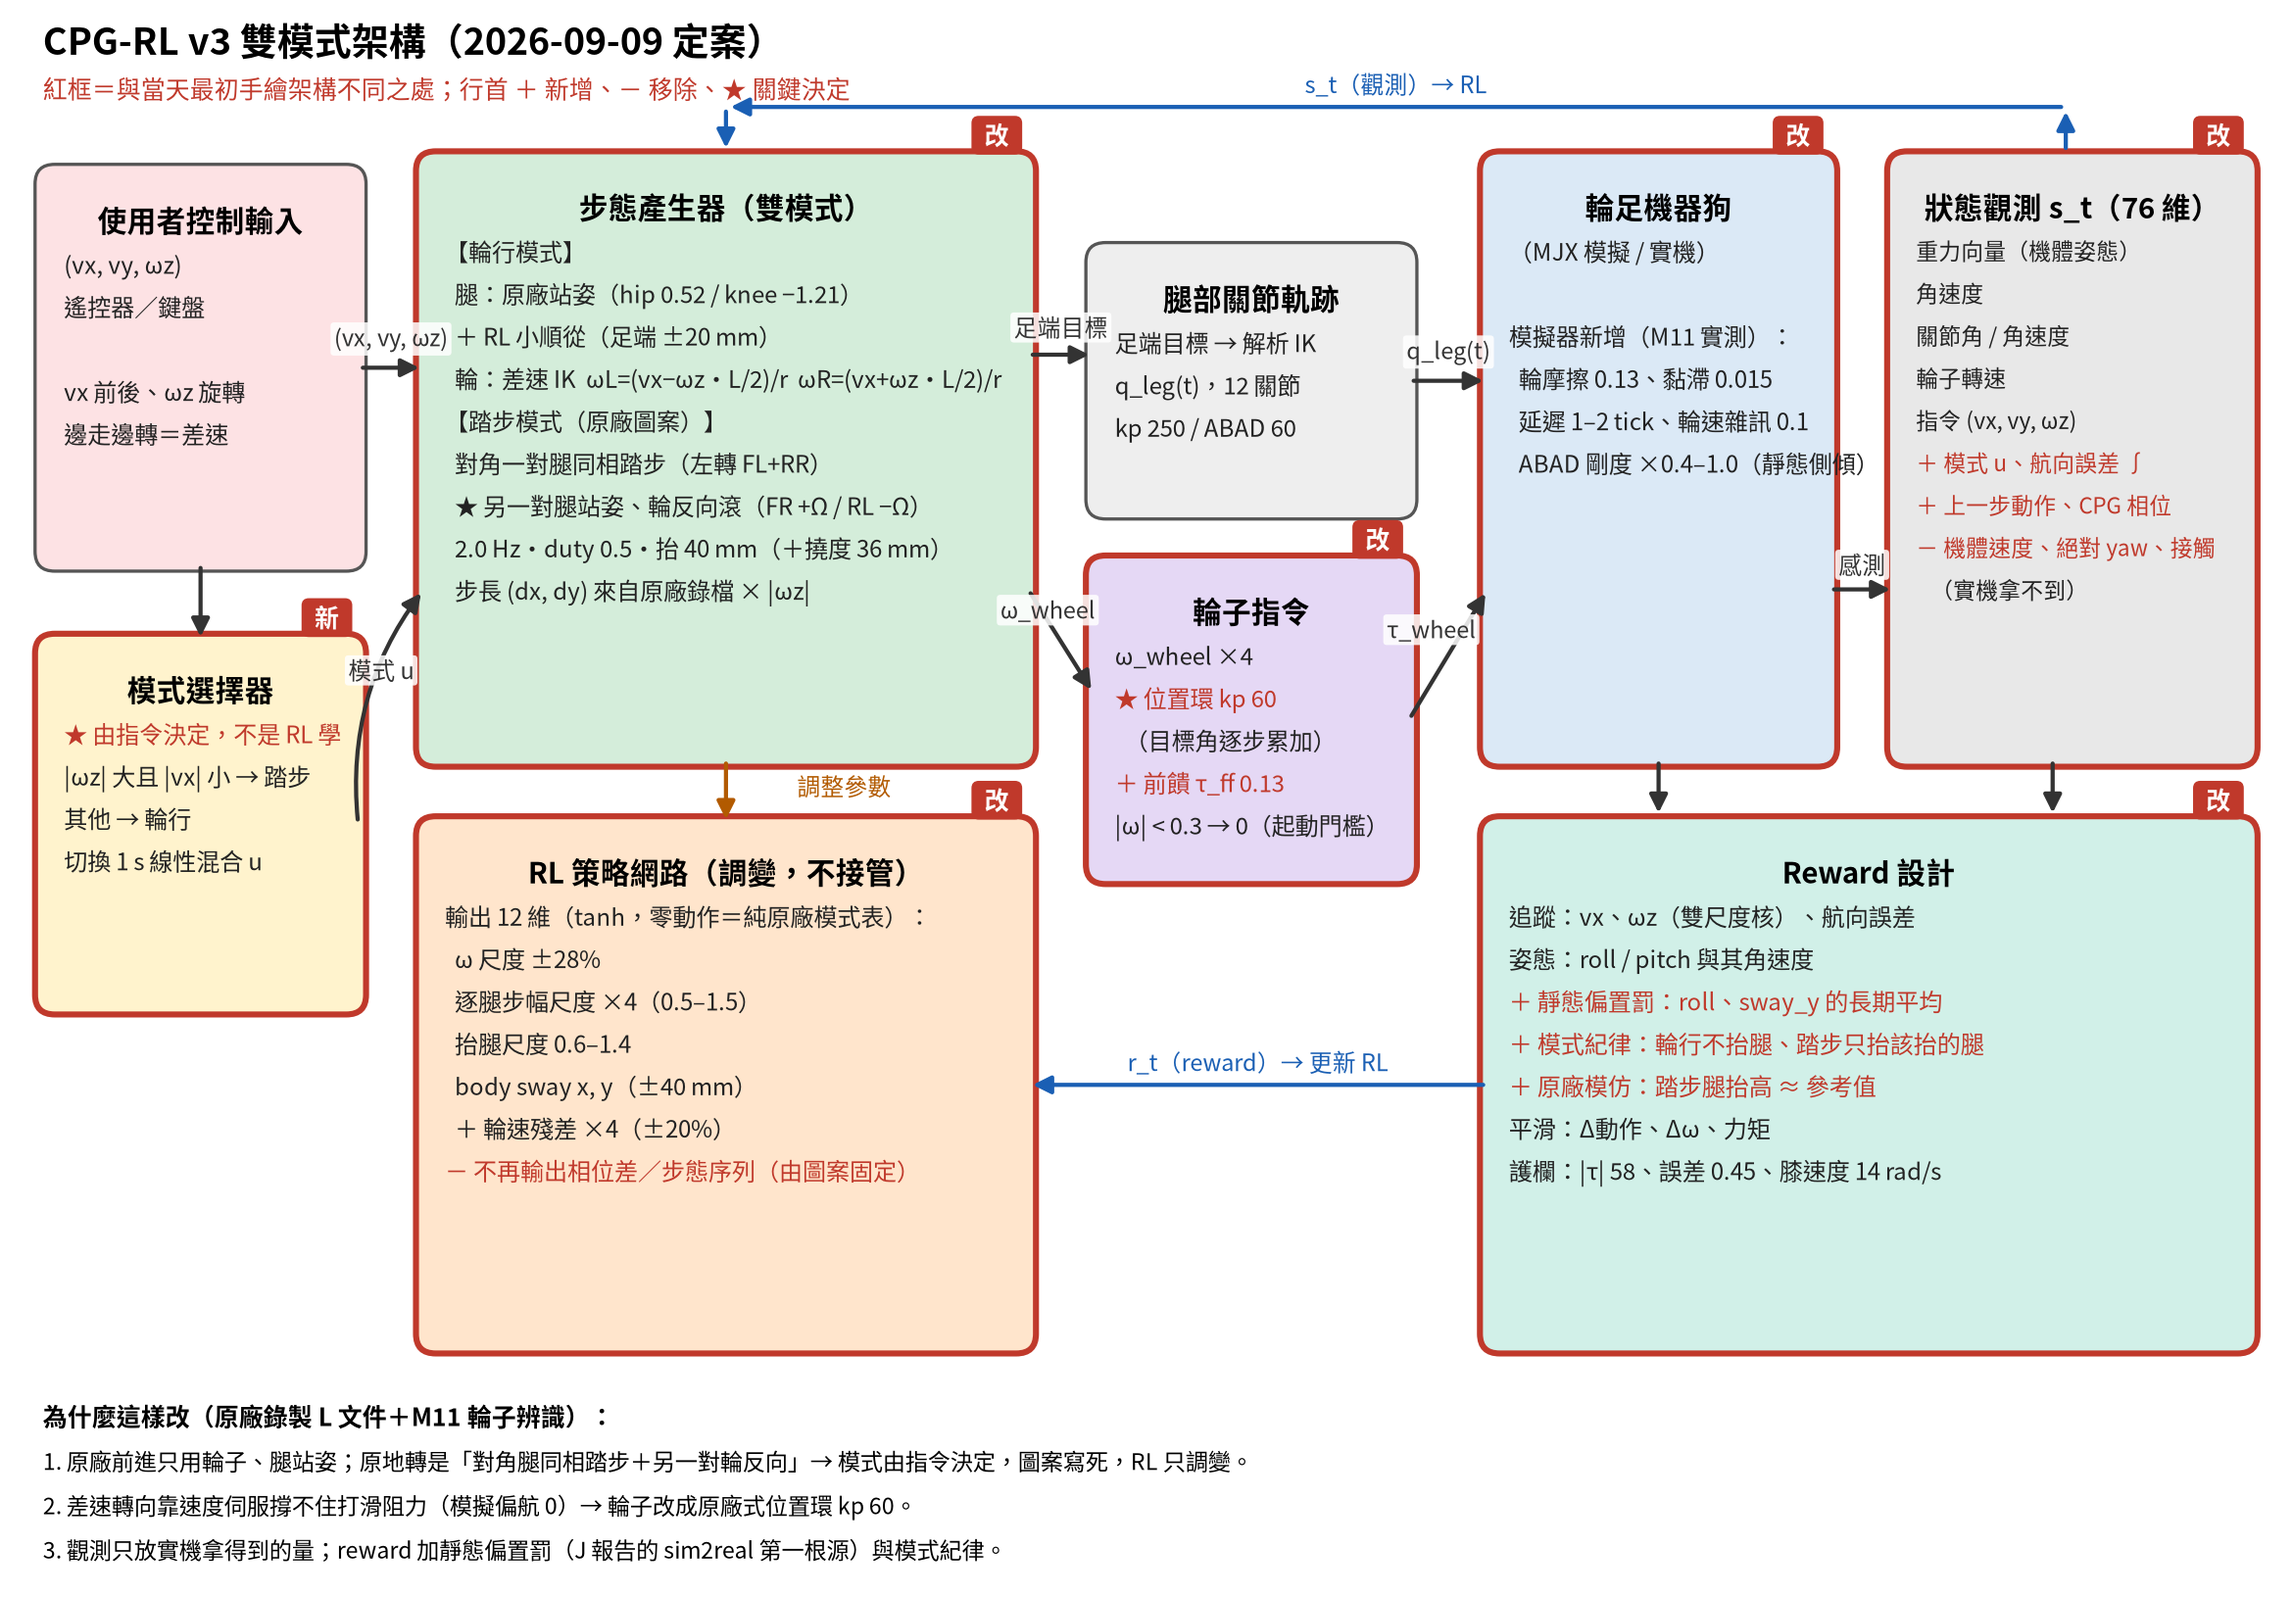
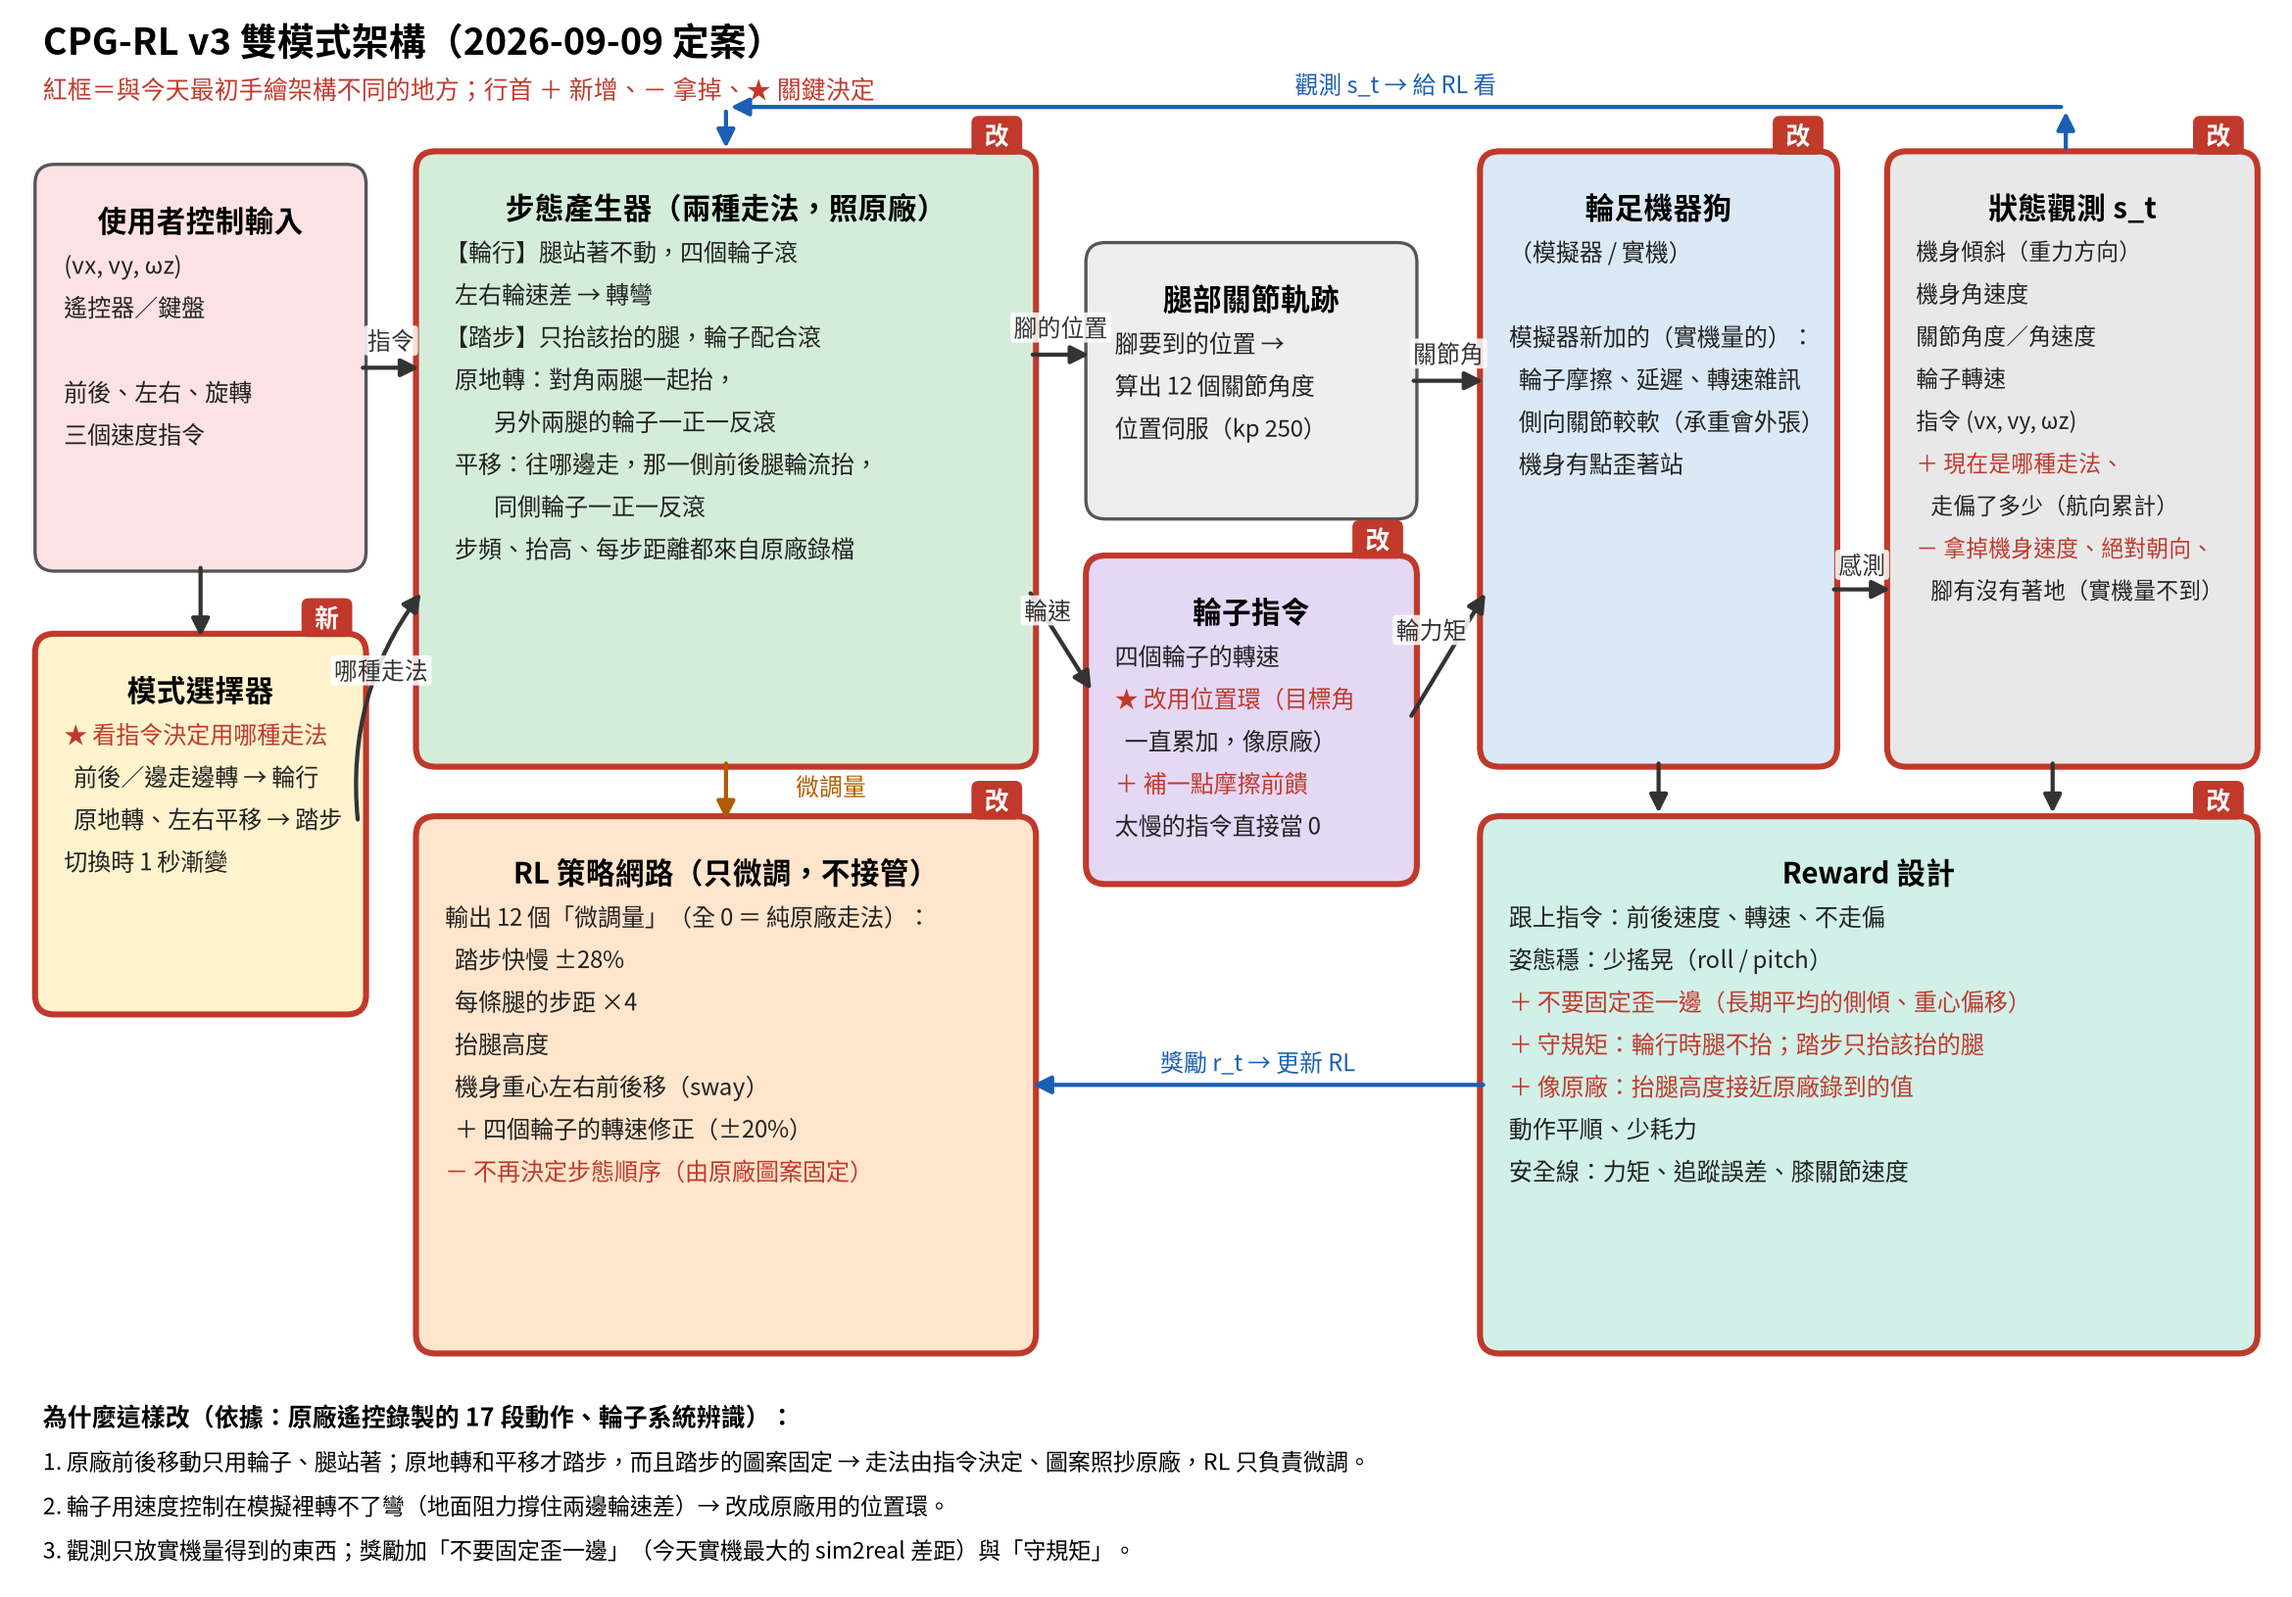
docs(task7): 圖P12 白話版 —— 加平移走法、去掉術語與數字
Claude-Session: https://claude.ai/code/session_013r2jQJy6xMB2GkEZKefTT4

diff --git a/task7/docs/figs/gen_figP12_v3_arch.py b/task7/docs/figs/gen_figP12_v3_arch.py
@@ -50,114 +50,113 @@ box(2, 62, 24, 30, "使用者控制輸入", [
     "(vx, vy, ωz)",
     "遙控器／鍵盤",
     "",
-    "vx 前後、ωz 旋轉",
-    "邊走邊轉＝差速",
+    "前後、左右、旋轉",
+    "三個速度指令",
 ], fc="#fde2e4")
 
 box(2, 28, 24, 28, "模式選擇器", [
-    "★ 由指令決定，不是 RL 學",
-    "|ωz| 大且 |vx| 小 → 踏步",
-    "其他 → 輪行",
-    "切換 1 s 線性混合 u",
+    "★ 看指令決定用哪種走法",
+    "  前後／邊走邊轉 → 輪行",
+    "  原地轉、左右平移 → 踏步",
+    "切換時 1 秒漸變",
 ], fc="#fff3cd", changed="新")
 
 # ---------------- 中：步態產生器（雙模式）＋ RL
-box(31, 47, 46, 46, "步態產生器（雙模式）", [
-    "【輪行模式】",
-    "  腿：原廠站姿（hip 0.52 / knee −1.21）",
-    "  ＋ RL 小順從（足端 ±20 mm）",
-    "  輪：差速 IK  ωL=(vx−ωz·L/2)/r  ωR=(vx+ωz·L/2)/r",
-    "【踏步模式（原廠圖案）】",
-    "  對角一對腿同相踏步（左轉 FL+RR）",
-    "  ★ 另一對腿站姿、輪反向滾（FR +Ω / RL −Ω）",
-    "  2.0 Hz・duty 0.5・抬 40 mm（＋撓度 36 mm）",
-    "  步長 (dx, dy) 來自原廠錄檔 × |ωz|",
+box(31, 47, 46, 46, "步態產生器（兩種走法，照原廠）", [
+    "【輪行】腿站著不動，四個輪子滾",
+    "  左右輪速差 → 轉彎",
+    "【踏步】只抬該抬的腿，輪子配合滾",
+    "  原地轉：對角兩腿一起抬，",
+    "          另外兩腿的輪子一正一反滾",
+    "  平移：往哪邊走，那一側前後腿輪流抬，",
+    "          同側輪子一正一反滾",
+    "  步頻、抬高、每步距離都來自原廠錄檔",
 ], fc="#d4edda", changed="改")
 
-box(31, 2, 46, 40, "RL 策略網路（調變，不接管）", [
-    "輸出 12 維（tanh，零動作＝純原廠模式表）：",
-    "  ω 尺度 ±28%",
-    "  逐腿步幅尺度 ×4（0.5–1.5）",
-    "  抬腿尺度 0.6–1.4",
-    "  body sway x, y（±40 mm）",
-    "  ＋ 輪速殘差 ×4（±20%）",
-    "－ 不再輸出相位差／步態序列（由圖案固定）",
+box(31, 2, 46, 40, "RL 策略網路（只微調，不接管）", [
+    "輸出 12 個「微調量」（全 0 ＝ 純原廠走法）：",
+    "  踏步快慢 ±28%",
+    "  每條腿的步距 ×4",
+    "  抬腿高度",
+    "  機身重心左右前後移（sway）",
+    "  ＋ 四個輪子的轉速修正（±20%）",
+    "－ 不再決定步態順序（由原廠圖案固定）",
 ], fc="#ffe5cc", changed="改")
 
 # ---------------- 中右：關節軌跡 + 輪速
 box(82, 66, 24, 20, "腿部關節軌跡", [
-    "足端目標 → 解析 IK",
-    "q_leg(t)，12 關節",
-    "kp 250 / ABAD 60",
+    "腳要到的位置 →",
+    "算出 12 個關節角度",
+    "位置伺服（kp 250）",
 ], fc="#eeeeee")
 
 box(82, 38, 24, 24, "輪子指令", [
-    "ω_wheel ×4",
-    "★ 位置環 kp 60",
-    "  （目標角逐步累加）",
-    "＋ 前饋 τ_ff 0.13",
-    "|ω| < 0.3 → 0（起動門檻）",
+    "四個輪子的轉速",
+    "★ 改用位置環（目標角",
+    "  一直累加，像原廠）",
+    "＋ 補一點摩擦前饋",
+    "太慢的指令直接當 0",
 ], fc="#e5d8f5", changed="改")
 
 # ---------------- 右：機器狗 + 觀測
 box(112, 47, 26, 46, "輪足機器狗", [
-    "（MJX 模擬 / 實機）",
+    "（模擬器 / 實機）",
     "",
-    "模擬器新增（M11 實測）：",
-    "  輪摩擦 0.13、黏滯 0.015",
-    "  延遲 1–2 tick、輪速雜訊 0.1",
-    "  ABAD 剛度 ×0.4–1.0（靜態側傾）",
+    "模擬器新加的（實機量的）：",
+    "  輪子摩擦、延遲、轉速雜訊",
+    "  側向關節較軟（承重會外張）",
+    "  機身有點歪著站",
 ], fc="#dbe9f6", changed="改")
 
-box(143, 47, 27, 46, "狀態觀測 s_t（76 維）", [
-    "重力向量（機體姿態）",
-    "角速度",
-    "關節角 / 角速度",
+box(143, 47, 27, 46, "狀態觀測 s_t", [
+    "機身傾斜（重力方向）",
+    "機身角速度",
+    "關節角度／角速度",
     "輪子轉速",
     "指令 (vx, vy, ωz)",
-    "＋ 模式 u、航向誤差 ∫",
-    "＋ 上一步動作、CPG 相位",
-    "－ 機體速度、絕對 yaw、接觸",
-    "   （實機拿不到）",
+    "＋ 現在是哪種走法、",
+    "   走偏了多少（航向累計）",
+    "－ 拿掉機身速度、絕對朝向、",
+    "   腳有沒有著地（實機量不到）",
 ], fc="#e8e8e8", changed="改", size=9.6)
 
 # ---------------- 下右：reward
 box(112, 2, 58, 40, "Reward 設計", [
-    "追蹤：vx、ωz（雙尺度核）、航向誤差",
-    "姿態：roll / pitch 與其角速度",
-    "＋ 靜態偏置罰：roll、sway_y 的長期平均",
-    "＋ 模式紀律：輪行不抬腿、踏步只抬該抬的腿",
-    "＋ 原廠模仿：踏步腿抬高 ≈ 參考值",
-    "平滑：Δ動作、Δω、力矩",
-    "護欄：|τ| 58、誤差 0.45、膝速度 14 rad/s",
+    "跟上指令：前後速度、轉速、不走偏",
+    "姿態穩：少搖晃（roll / pitch）",
+    "＋ 不要固定歪一邊（長期平均的側傾、重心偏移）",
+    "＋ 守規矩：輪行時腿不抬；踏步只抬該抬的腿",
+    "＋ 像原廠：抬腿高度接近原廠錄到的值",
+    "動作平順、少耗力",
+    "安全線：力矩、追蹤誤差、膝關節速度",
 ], fc="#d1f0e8", changed="改")
 
 # ---------------- 箭頭
-arrow((26, 77), (31, 77), "(vx, vy, ωz)")
+arrow((26, 77), (31, 77), "指令")
 arrow((14, 62), (14, 56))                                   # 指令 → 模式選擇器
-arrow((26, 42), (31, 60), "模式 u", rad=-0.2, tpos=0.55, toff=(-1, 1))
-arrow((54, 47), (54, 42), "調整參數", color="#b25a00", tpos=0.5, toff=(9, -0.5))
-arrow((77, 78), (82, 78), "足端目標")
-arrow((77, 60), (82, 52), "ω_wheel", tpos=0.5, toff=(-1, 1.5))
-arrow((106, 76), (112, 76), "q_leg(t)")
-arrow((106, 50), (112, 60), "τ_wheel", tpos=0.45, toff=(-1, 1.5))
+arrow((26, 42), (31, 60), "哪種走法", rad=-0.2, tpos=0.55, toff=(-1, 1))
+arrow((54, 47), (54, 42), "微調量", color="#b25a00", tpos=0.5, toff=(8, -0.5))
+arrow((77, 78), (82, 78), "腳的位置")
+arrow((77, 60), (82, 52), "輪速", tpos=0.5, toff=(-1, 1.5))
+arrow((106, 76), (112, 76), "關節角")
+arrow((106, 50), (112, 60), "輪力矩", tpos=0.45, toff=(-1, 1.5))
 arrow((138, 60), (143, 60), "感測", toff=(0, 1.0))
 arrow((155, 47), (155, 42.5), "", color="#333")
 arrow((125, 47), (125, 42.5), "", color="#333")
 # 觀測回到 RL、reward 回到 RL
 arrow((156, 93.5), (156, 97), "", color="#1a5fb4")
-arrow((156, 97), (54, 97), "s_t（觀測）→ RL", color="#1a5fb4", rad=0.0, tpos=0.5, toff=(0, 0.8))
+arrow((156, 97), (54, 97), "觀測 s_t → 給 RL 看", color="#1a5fb4", rad=0.0, tpos=0.5, toff=(0, 0.8))
 arrow((54, 97), (54, 93.5), "", color="#1a5fb4")
-arrow((112, 22), (77, 22), "r_t（reward）→ 更新 RL", color="#1a5fb4", tpos=0.5, toff=(0, 0.8), size=10)
+arrow((112, 22), (77, 22), "獎勵 r_t → 更新 RL", color="#1a5fb4", tpos=0.5, toff=(0, 0.8), size=10)
 
 # ---------------- 標題與圖例
 ax.text(2, 103.5, "CPG-RL v3 雙模式架構（2026-09-09 定案）", fontsize=16, fontweight="bold", va="top")
-ax.text(2, 99.3, "紅框＝與當天最初手繪架構不同之處；行首 ＋ 新增、－ 移除、★ 關鍵決定", fontsize=10.5, va="top", color=RED)
-ax.text(2, -2.5, "為什麼這樣改（原廠錄製 L 文件＋M11 輪子辨識）：", fontsize=10.5, va="top", fontweight="bold")
+ax.text(2, 99.3, "紅框＝與今天最初手繪架構不同的地方；行首 ＋ 新增、－ 拿掉、★ 關鍵決定", fontsize=10.5, va="top", color=RED)
+ax.text(2, -2.5, "為什麼這樣改（依據：原廠遙控錄製的 17 段動作、輪子系統辨識）：", fontsize=10.5, va="top", fontweight="bold")
 for i, ln in enumerate([
-    "1. 原廠前進只用輪子、腿站姿；原地轉是「對角腿同相踏步＋另一對輪反向」→ 模式由指令決定，圖案寫死，RL 只調變。",
-    "2. 差速轉向靠速度伺服撐不住打滑阻力（模擬偏航 0）→ 輪子改成原廠式位置環 kp 60。",
-    "3. 觀測只放實機拿得到的量；reward 加靜態偏置罰（J 報告的 sim2real 第一根源）與模式紀律。",
+    "1. 原廠前後移動只用輪子、腿站著；原地轉和平移才踏步，而且踏步的圖案固定 → 走法由指令決定、圖案照抄原廠，RL 只負責微調。",
+    "2. 輪子用速度控制在模擬裡轉不了彎（地面阻力撐住兩邊輪速差）→ 改成原廠用的位置環。",
+    "3. 觀測只放實機量得到的東西；獎勵加「不要固定歪一邊」（今天實機最大的 sim2real 差距）與「守規矩」。",
 ]):
     ax.text(2, -6 - i * 3.4, ln, fontsize=9.8, va="top")
 
